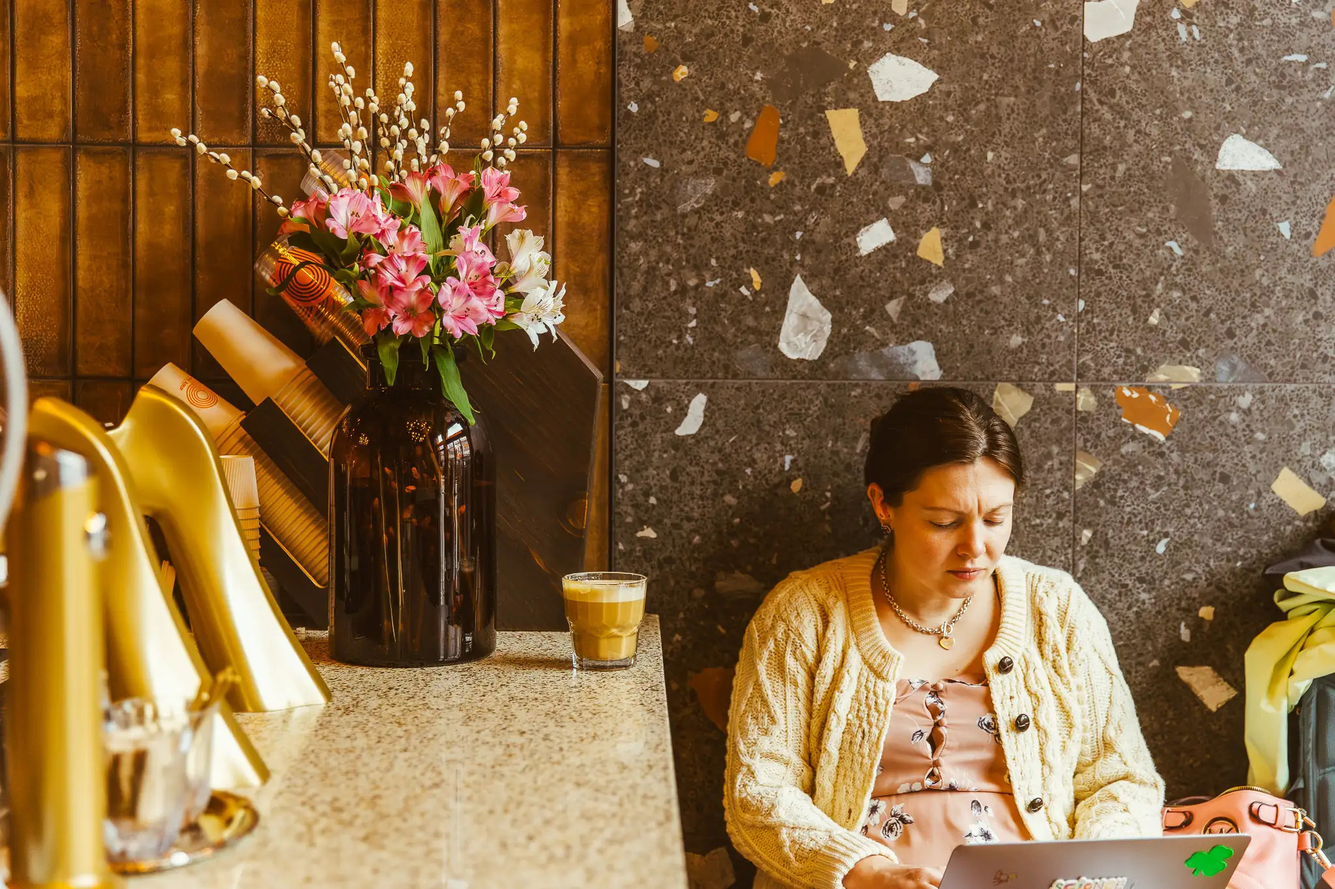
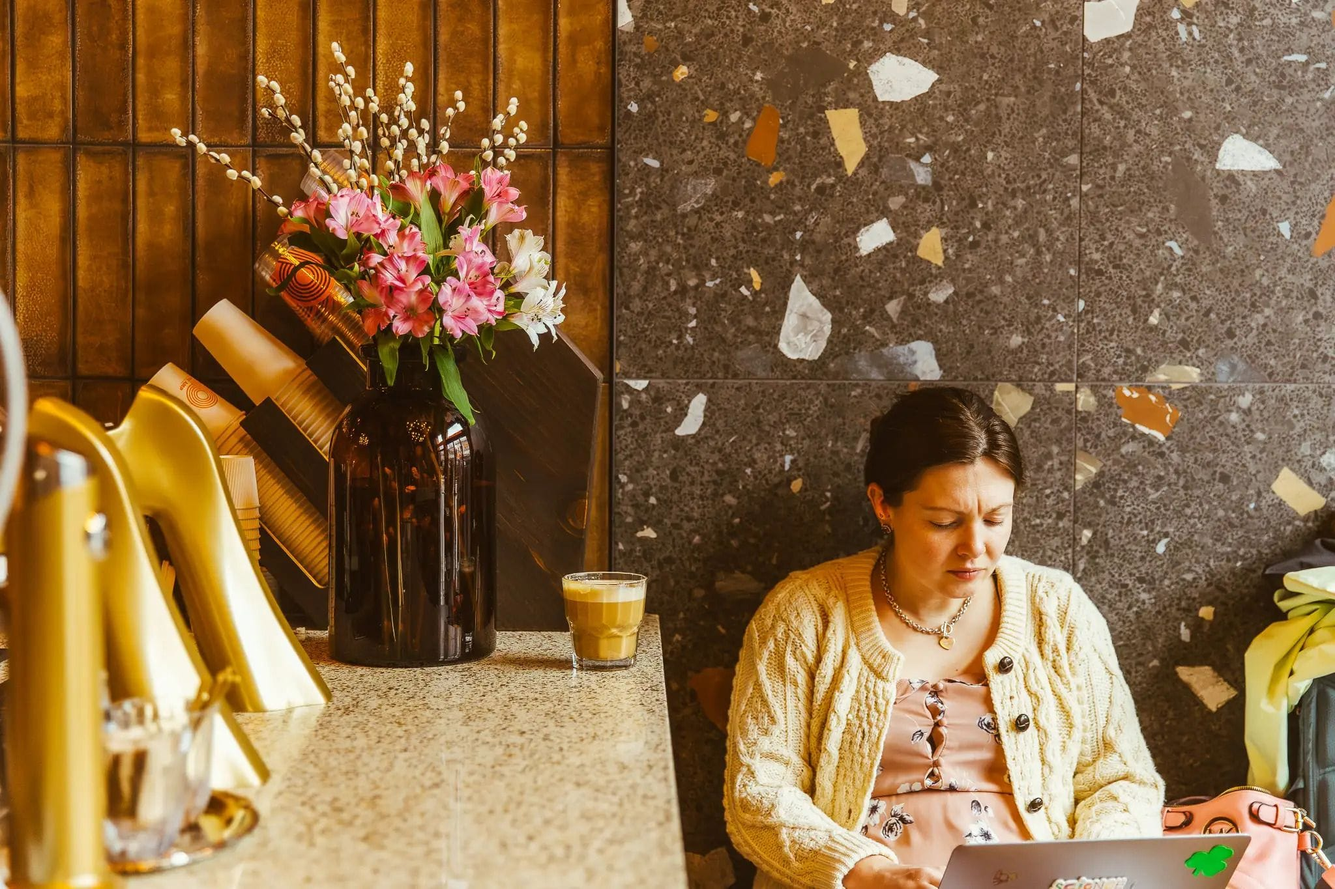
perf: optimize images, defer heavy code, add llms.txt
Site was scoring 63/100 with a 14.8s LCP and 3.2s FCP. Changes:

- Recompress oversized photos in public/images at high quality (no resize,
  dimensions unchanged). Total payload 13.6MB -> 7.8MB; the hero LCP assets
  drop hardest: heroprimary.png 689KB -> 90KB, preampdecor.jpg 1467KB -> 604KB.
- Preload the LCP hero image and mark it fetchpriority=high so it downloads in
  parallel with the JS bundle instead of after React mounts.
- Load Google Fonts non-render-blocking (preload + media=print swap; text
  already uses font-display:swap), so webfonts no longer block first paint.
- Code-split the admin app and PDF viewer via React.lazy. This pulls recharts
  and all admin code (~600KB) out of the public bundle entirely.
- Lazy-load below-the-fold images across the home and about pages so they no
  longer contend with the hero for bandwidth.
- Add public/llms.txt with an H1 title and markdown links so agentic/LLM
  crawlers get a valid, structured site guide.

No visual or behavioral changes to the site.

Claude-Session: https://claude.ai/code/session_01KRHo3cMDwTTaaQDQSnJkmE

Changed region(s): [[0.2188, 0.2769, 0.25, 0.3385]]

diff --git a/src/App.tsx b/src/App.tsx
@@ -1,12 +1,20 @@
-import { useEffect } from "react";
+import { lazy, Suspense, useEffect } from "react";
 import { Routes, Route, useLocation } from "react-router-dom";
 import { AnimatePresence } from "framer-motion";
 
 import { Layout } from "@/components/site/Layout";
 import { ErrorBoundary } from "@/components/site/ErrorBoundary";
 import { useTrack } from "@/lib/analytics";
-import { AdminApp } from "@/admin/AdminApp";
-import { PdfViewer } from "@/pages/PdfViewer";
+
+// Admin (with its heavy charting deps) and the PDF viewer sit off the public
+// funnel, so load them on demand — this keeps them out of the main bundle and
+// speeds up first load for regular visitors.
+const AdminApp = lazy(() =>
+  import("@/admin/AdminApp").then((m) => ({ default: m.AdminApp })),
+);
+const PdfViewer = lazy(() =>
+  import("@/pages/PdfViewer").then((m) => ({ default: m.PdfViewer })),
+);
 import { Home } from "@/pages/Home";
 import { MenuCoffee } from "@/pages/MenuCoffee";
 import { MenuFood } from "@/pages/MenuFood";
@@ -58,12 +66,20 @@ export default function App() {
 
   // The admin app renders on its own, without the public navbar/footer chrome.
   if (location.pathname.startsWith("/admin")) {
-    return <AdminApp />;
+    return (
+      <Suspense fallback={null}>
+        <AdminApp />
+      </Suspense>
+    );
   }
 
   // Full-screen menu PDF viewer (its own tab, branded with the site favicon).
   if (location.pathname.startsWith("/menu-pdf")) {
-    return <PdfViewer />;
+    return (
+      <Suspense fallback={null}>
+        <PdfViewer />
+      </Suspense>
+    );
   }
 
   return (

diff --git a/index.html b/index.html
@@ -10,9 +10,32 @@
     />
     <link rel="preconnect" href="https://fonts.googleapis.com" />
     <link rel="preconnect" href="https://fonts.gstatic.com" crossorigin />
+    <!-- Load Google Fonts without blocking first paint. font-display:swap
+         already renders text in the fallback face until the webfont arrives. -->
+    <link
+      rel="preload"
+      as="style"
+      href="https://fonts.googleapis.com/css2?family=Monoton&family=Righteous&family=Montserrat:wght@400;500;600;700&display=swap"
+    />
     <link
       href="https://fonts.googleapis.com/css2?family=Monoton&family=Righteous&family=Montserrat:wght@400;500;600;700&display=swap"
       rel="stylesheet"
+      media="print"
+      onload="this.media='all'"
+    />
+    <noscript>
+      <link
+        href="https://fonts.googleapis.com/css2?family=Monoton&family=Righteous&family=Montserrat:wght@400;500;600;700&display=swap"
+        rel="stylesheet"
+      />
+    </noscript>
+    <!-- Preload the LCP hero artwork so it downloads in parallel with the JS
+         bundle instead of waiting for React to mount. -->
+    <link
+      rel="preload"
+      as="image"
+      href="/images/preampdecor.jpg"
+      fetchpriority="high"
     />
     <title>Pre Amp Coffee Studio · Brews &amp; Beats in Pittsburgh</title>
   </head>

diff --git a/src/pages/About.tsx b/src/pages/About.tsx
@@ -285,6 +285,8 @@ export function About() {
           <img
             src="/images/artworkheadon.jpg"
             alt=""
+            loading="lazy"
+            decoding="async"
             className="h-full w-full object-cover"
           />
           <div className="absolute inset-0 bg-gradient-to-b from-espresso/75 via-maroon/55 to-espresso/85" />
@@ -504,6 +506,8 @@ export function About() {
               <img
                 src="/images/eventvinyls.jpg"
                 alt="Vinyl records"
+                loading="lazy"
+                decoding="async"
                 className="h-64 w-full object-cover transition-transform duration-[1.2s] group-hover:scale-110 md:h-80"
               />
             </div>
@@ -511,6 +515,8 @@ export function About() {
               <img
                 src="/images/eventspeakers.jpg"
                 alt="Speakers in the studio"
+                loading="lazy"
+                decoding="async"
                 className="h-64 w-full object-cover transition-transform duration-[1.2s] group-hover:scale-110 md:h-80"
               />
             </div>

diff --git a/src/components/site/sections/Intro.tsx b/src/components/site/sections/Intro.tsx
@@ -31,11 +31,15 @@ export function Intro() {
           <img
             src="/images/preampdecor4.jpg"
             alt=""
+            loading="lazy"
+            decoding="async"
             className="h-56 w-full rounded-2xl object-cover shadow-lg shadow-maroon/15 ring-1 ring-espresso/10"
           />
           <img
             src="/images/preampdecor5.jpg"
             alt=""
+            loading="lazy"
+            decoding="async"
             className="h-56 w-full rounded-2xl object-cover shadow-lg shadow-maroon/15 ring-1 ring-espresso/10"
           />
         </div>

diff --git a/src/components/site/sections/ParallaxBanner.tsx b/src/components/site/sections/ParallaxBanner.tsx
@@ -29,7 +29,13 @@ export function ParallaxBanner({
       className="relative flex h-[70vh] items-center justify-center overflow-hidden"
     >
       <motion.div style={{ y }} className="absolute inset-0 -z-10 scale-125">
-        <img src={image} alt="" className="h-full w-full object-cover" />
+        <img
+          src={image}
+          alt=""
+          loading="lazy"
+          decoding="async"
+          className="h-full w-full object-cover"
+        />
         <div className="absolute inset-0 bg-espresso/55" />
       </motion.div>
 

diff --git a/src/components/site/sections/Hero.tsx b/src/components/site/sections/Hero.tsx
@@ -28,6 +28,8 @@ export function Hero() {
         <img
           src="/images/preampdecor.jpg"
           alt=""
+          fetchPriority="high"
+          decoding="async"
           className="h-full w-full object-cover"
         />
         <div className="absolute inset-0 bg-gradient-to-br from-espresso/80 via-maroon/55 to-espresso/85" />

diff --git a/src/components/site/Footer.tsx b/src/components/site/Footer.tsx
@@ -22,6 +22,8 @@ export function Footer() {
             <img
               src="/images/preamplogo.png"
               alt="Pre Amp logo"
+              loading="lazy"
+              decoding="async"
               className="h-12 w-12 object-contain"
             />
             <p className="font-display text-3xl text-gold">Pre Amp</p>

diff --git a/src/components/site/sections/FeaturedCarousel.tsx b/src/components/site/sections/FeaturedCarousel.tsx
@@ -33,6 +33,8 @@ function FeaturedCard({ item }: { item: FeaturedItem }) {
           <img
             src={item.image}
             alt={item.name}
+            loading="lazy"
+            decoding="async"
             className="h-full w-full object-cover transition-transform duration-500 group-hover:scale-105"
           />
         )}
